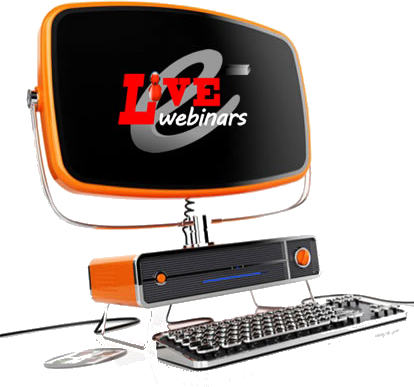
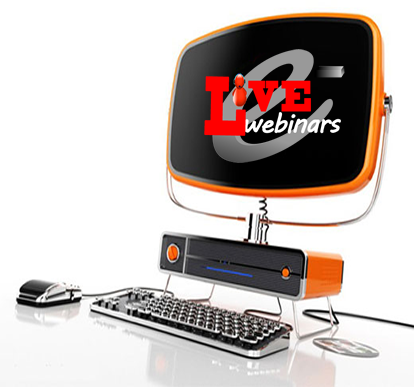
cambios chuscos

diff --git a/app/assets/stylesheets/style.css b/app/assets/stylesheets/style.css
@@ -82,8 +82,8 @@ h5.logo a
   color:#fff;
   text-decoration:none;
   display:inline-block;
-/*  background:url(/assets/logo-bg.gif) no-repeat 0 6px;*/
-/*  padding-left:50px;*/
+  background:url(/assets/logo-min.png) no-repeat 0 6px;
+  padding-left:70px;
   color: #fff;
 }
 
@@ -444,10 +444,11 @@ cite
   height: 320px;
 }
 
-/*#top_section #photos{*/
-/*  float:right;*/
-/*  margin-right: 125px;*/
-/*}*/
+#top_section #photos{
+  float:right;
+  margin-right: 100px;
+  margin-top: -26px;
+}
 
 #top_section .slogan
 {

diff --git a/app/assets/stylesheets/layout.css b/app/assets/stylesheets/layout.css
@@ -1,6 +1,6 @@
 #main { width:1000px; margin:0 auto; text-align:left;}
 
-#header {height:95px;}
+#header {height:105px;}
 
 
 .column-1, .column-2 {float:left;}
